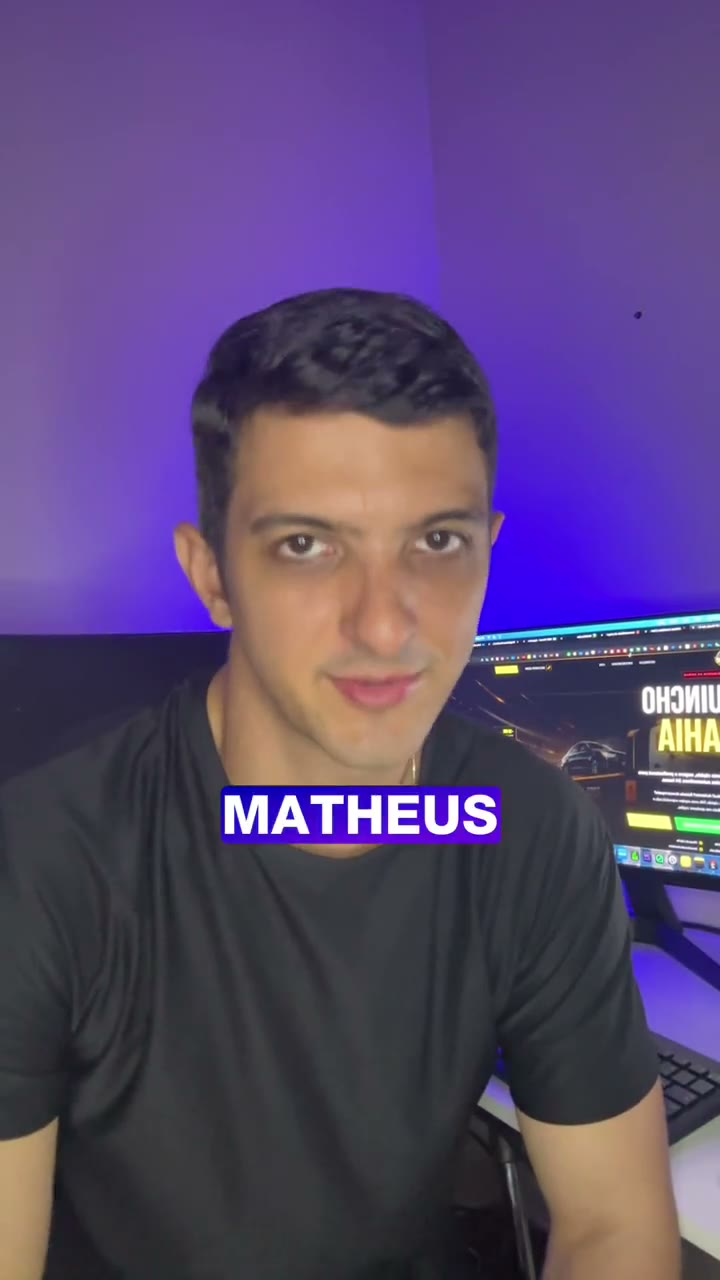
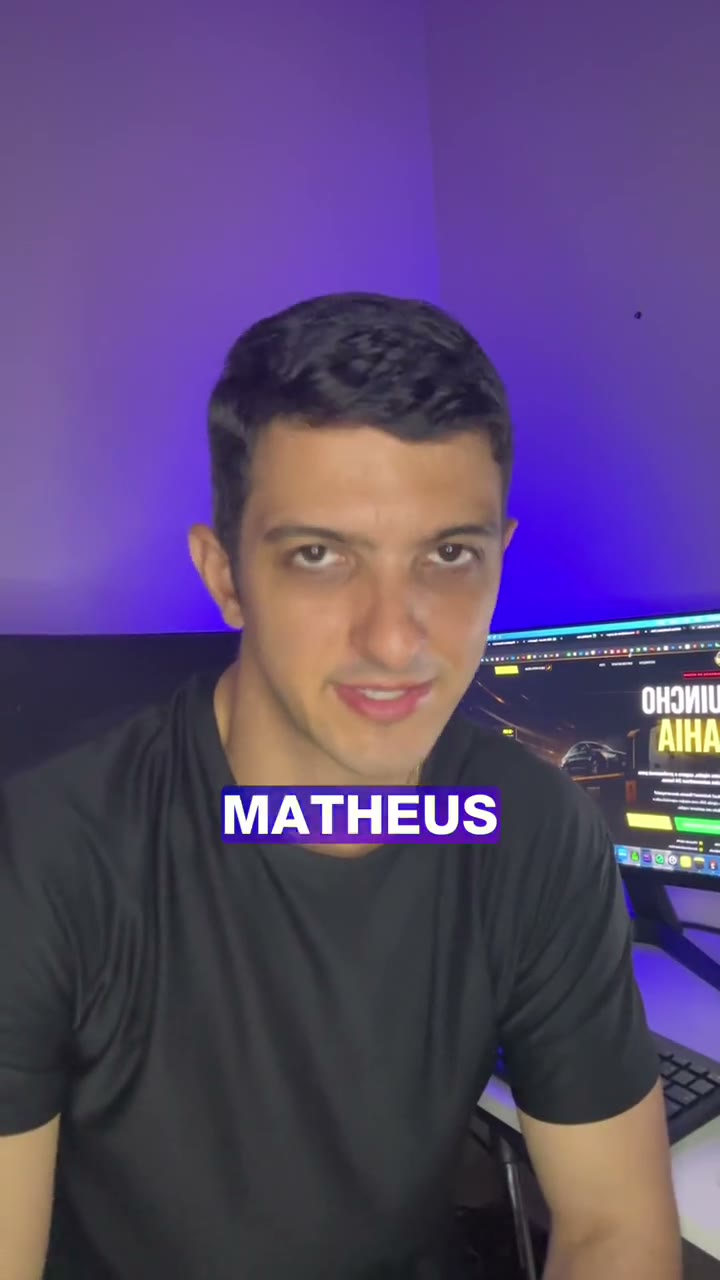
feat: adiciona Facebook Pixel e tracking de WhatsApp no diagnóstico, atualiza vídeo do hero
- Cria app/FacebookPixel.tsx e injeta no layout raiz
- Rastreia cliques nos botões de WhatsApp (header e flutuante) com evento
  Contact do Pixel, escopado apenas à página /diagnostico via prop opcional
- Rastreia conclusão do quiz (evento Lead) no botão de WhatsApp da tela de
  resultado
- Substitui o vídeo do hero por uma versão nova, comprimida de 70,8MB para
  7MB (H.264 720p) para não pesar o carregamento em tráfego de anúncio

Changed region(s): [[0.2444, 0.2188, 0.7333, 0.6875], [0.0, 0.875, 0.0917, 0.9062], [0.7028, 0.8438, 0.7333, 0.875]]

diff --git a/app/FacebookPixel.tsx b/app/FacebookPixel.tsx
@@ -1,0 +1,37 @@
+'use client'
+
+import Script from 'next/script'
+
+export default function FacebookPixel() {
+  return (
+    <>
+      <Script
+        id="facebook-pixel"
+        strategy="afterInteractive"
+        dangerouslySetInnerHTML={{
+          __html: `
+            !function(f,b,e,v,n,t,s)
+            {if(f.fbq)return;n=f.fbq=function(){n.callMethod?
+            n.callMethod.apply(n,arguments):n.queue.push(arguments)};
+            if(!f._fbq)f._fbq=n;n.push=n;n.loaded=!0;n.version='2.0';
+            n.queue=[];t=b.createElement(e);t.async=!0;
+            t.src=v;s=b.getElementsByTagName(e)[0];
+            s.parentNode.insertBefore(t,s)}(window, document,'script',
+            'https://connect.facebook.net/en_US/fbevents.js');
+            fbq('init', '783834438128548');
+            fbq('track', 'PageView');
+          `,
+        }}
+      />
+      <noscript>
+        <img
+          height="1"
+          width="1"
+          style={{ display: 'none' }}
+          src="https://www.facebook.com/tr?id=783834438128548&ev=PageView&noscript=1"
+          alt=""
+        />
+      </noscript>
+    </>
+  )
+}

diff --git a/components/Header.tsx b/components/Header.tsx
@@ -15,9 +15,16 @@ const NAV_LINKS = [
   { label: "Contato", href: "#contato" },
 ]
 
-export default function Header() {
+export default function Header({ pixelContentName }: { pixelContentName?: string } = {}) {
   const [isMenuOpen, setIsMenuOpen] = useState(false)
   const [isScrolled, setIsScrolled] = useState(false)
+
+  function trackPixelContact() {
+    if (!pixelContentName) return
+    if (typeof window !== "undefined" && typeof window.fbq === "function") {
+      window.fbq("track", "Contact", { content_name: pixelContentName })
+    }
+  }
 
   useEffect(() => {
     const onScroll = () => setIsScrolled(window.scrollY > 24)
@@ -93,7 +100,7 @@ export default function Header() {
               href={WHATSAPP_URL}
               target="_blank"
               rel="noopener noreferrer"
-              onClick={() => trackWhatsAppClick("header_desktop")}
+              onClick={() => { trackWhatsAppClick("header_desktop"); trackPixelContact() }}
               className="hidden sm:inline-flex items-center gap-2 px-4 py-2 rounded-full bg-gradient-to-r from-blue-600 to-cyan-500 text-white text-sm font-semibold hover:from-blue-500 hover:to-cyan-400 transition-all shadow-md shadow-blue-500/20 hover:shadow-blue-500/35 focus-visible:ring-2 focus-visible:ring-blue-400 focus-visible:ring-offset-2 focus-visible:ring-offset-[#030712]"
             >
               <WhatsAppSVG className="w-3.5 h-3.5" />
@@ -153,7 +160,7 @@ export default function Header() {
                 initial={{ opacity: 0 }}
                 animate={{ opacity: 1 }}
                 transition={{ delay: 0.3, duration: 0.25 }}
-                onClick={() => trackWhatsAppClick("header_mobile")}
+                onClick={() => { trackWhatsAppClick("header_mobile"); trackPixelContact() }}
                 className="mt-2 flex items-center justify-center gap-2 px-4 py-3.5 rounded-2xl bg-gradient-to-r from-blue-600 to-cyan-500 text-white text-sm font-semibold shadow-lg shadow-blue-500/20"
               >
                 <WhatsAppSVG className="w-4 h-4" />

diff --git a/components/WhatsAppButton.tsx b/components/WhatsAppButton.tsx
@@ -6,8 +6,15 @@ import { WhatsAppSVG } from "@/components/ui/WhatsAppSVG"
 import { EASE } from "@/lib/motion"
 import { trackWhatsAppClick } from "@/lib/analytics"
 
-export default function WhatsAppButton() {
+export default function WhatsAppButton({ pixelContentName }: { pixelContentName?: string } = {}) {
   const prefersReduced = useReducedMotion()
+
+  function trackPixelContact() {
+    if (!pixelContentName) return
+    if (typeof window !== "undefined" && typeof window.fbq === "function") {
+      window.fbq("track", "Contact", { content_name: pixelContentName })
+    }
+  }
 
   return (
     <motion.div
@@ -37,7 +44,7 @@ export default function WhatsAppButton() {
         target="_blank"
         rel="noopener noreferrer"
         aria-label="Falar no WhatsApp"
-        onClick={() => trackWhatsAppClick("botao_flutuante")}
+        onClick={() => { trackWhatsAppClick("botao_flutuante"); trackPixelContact() }}
         className="relative flex items-center gap-2.5 rounded-full bg-emerald-500 px-5 py-3.5 text-white shadow-2xl shadow-emerald-500/35 hover:bg-emerald-400 transition-colors focus-visible:ring-2 focus-visible:ring-emerald-400 focus-visible:ring-offset-2 focus-visible:ring-offset-[#030712]"
         whileHover={prefersReduced ? undefined : { scale: 1.05 }}
         whileTap={prefersReduced ? undefined : { scale: 0.96 }}

diff --git a/components/diagnostico/DiagnosticoResultado.tsx b/components/diagnostico/DiagnosticoResultado.tsx
@@ -29,7 +29,16 @@ export default function DiagnosticoResultado({
           href={whatsAppUrl}
           target="_blank"
           rel="noopener noreferrer"
-          onClick={() => trackWhatsAppClick(`diagnostico_${classification}`)}
+          onClick={() => {
+            trackWhatsAppClick(`diagnostico_${classification}`)
+            if (typeof window !== 'undefined' && typeof window.fbq === 'function') {
+              window.fbq('track', 'Lead', {
+                content_name: 'Diagnóstico Concluído',
+                value: 500,
+                currency: 'BRL'
+              })
+            }
+          }}
           className={
             primary
               ? "group relative inline-flex items-center justify-center gap-2.5 px-8 py-4 rounded-full bg-gradient-to-r from-emerald-500 to-emerald-400 text-white font-bold text-base hover:from-emerald-400 hover:to-emerald-300 transition-all shadow-2xl shadow-emerald-500/30 hover:shadow-emerald-500/50 hover:-translate-y-0.5 active:translate-y-0 focus-visible:ring-2 focus-visible:ring-emerald-400 focus-visible:ring-offset-2 focus-visible:ring-offset-[#030712] w-full sm:w-auto"

diff --git a/app/diagnostico/DiagnosticoPage.tsx b/app/diagnostico/DiagnosticoPage.tsx
@@ -140,14 +140,14 @@ export default function DiagnosticoPage() {
 
   return (
     <>
-      <Header />
+      <Header pixelContentName="WhatsApp Header - Diagnóstico" />
       <DiagnosticoLanding
         onStart={handleStart}
         scrollToPortfolio={scrollToPortfolio}
         onScrolled={handleScrolled}
       />
       <Footer />
-      <WhatsAppButton />
+      <WhatsAppButton pixelContentName="WhatsApp Flutuante - Diagnóstico" />
     </>
   )
 }

diff --git a/app/layout.tsx b/app/layout.tsx
@@ -5,6 +5,7 @@ import "./globals.css"
 import { SITE_URL, EMAIL, INSTAGRAM_URL } from "@/lib/constants"
 import MetaPixel from "@/components/MetaPixel"
 import ScrollTracker from "@/components/ScrollTracker"
+import FacebookPixel from './FacebookPixel'
 
 const geistSans = Geist({ variable: "--font-geist-sans", subsets: ["latin"], display: "swap" })
 const geistMono = Geist_Mono({ variable: "--font-geist-mono", subsets: ["latin"], display: "swap" })
@@ -155,6 +156,7 @@ j=d.createElement(s),dl=l!='dataLayer'?'&l='+l:'';j.async=true;j.src=
       </head>
 
       <body className="min-h-full flex flex-col bg-[#030712] text-white overflow-x-hidden">
+        <FacebookPixel />
         {/* GTM noscript — necessário para rastreamento sem JavaScript */}
         {GTM_ID && (
           <noscript>